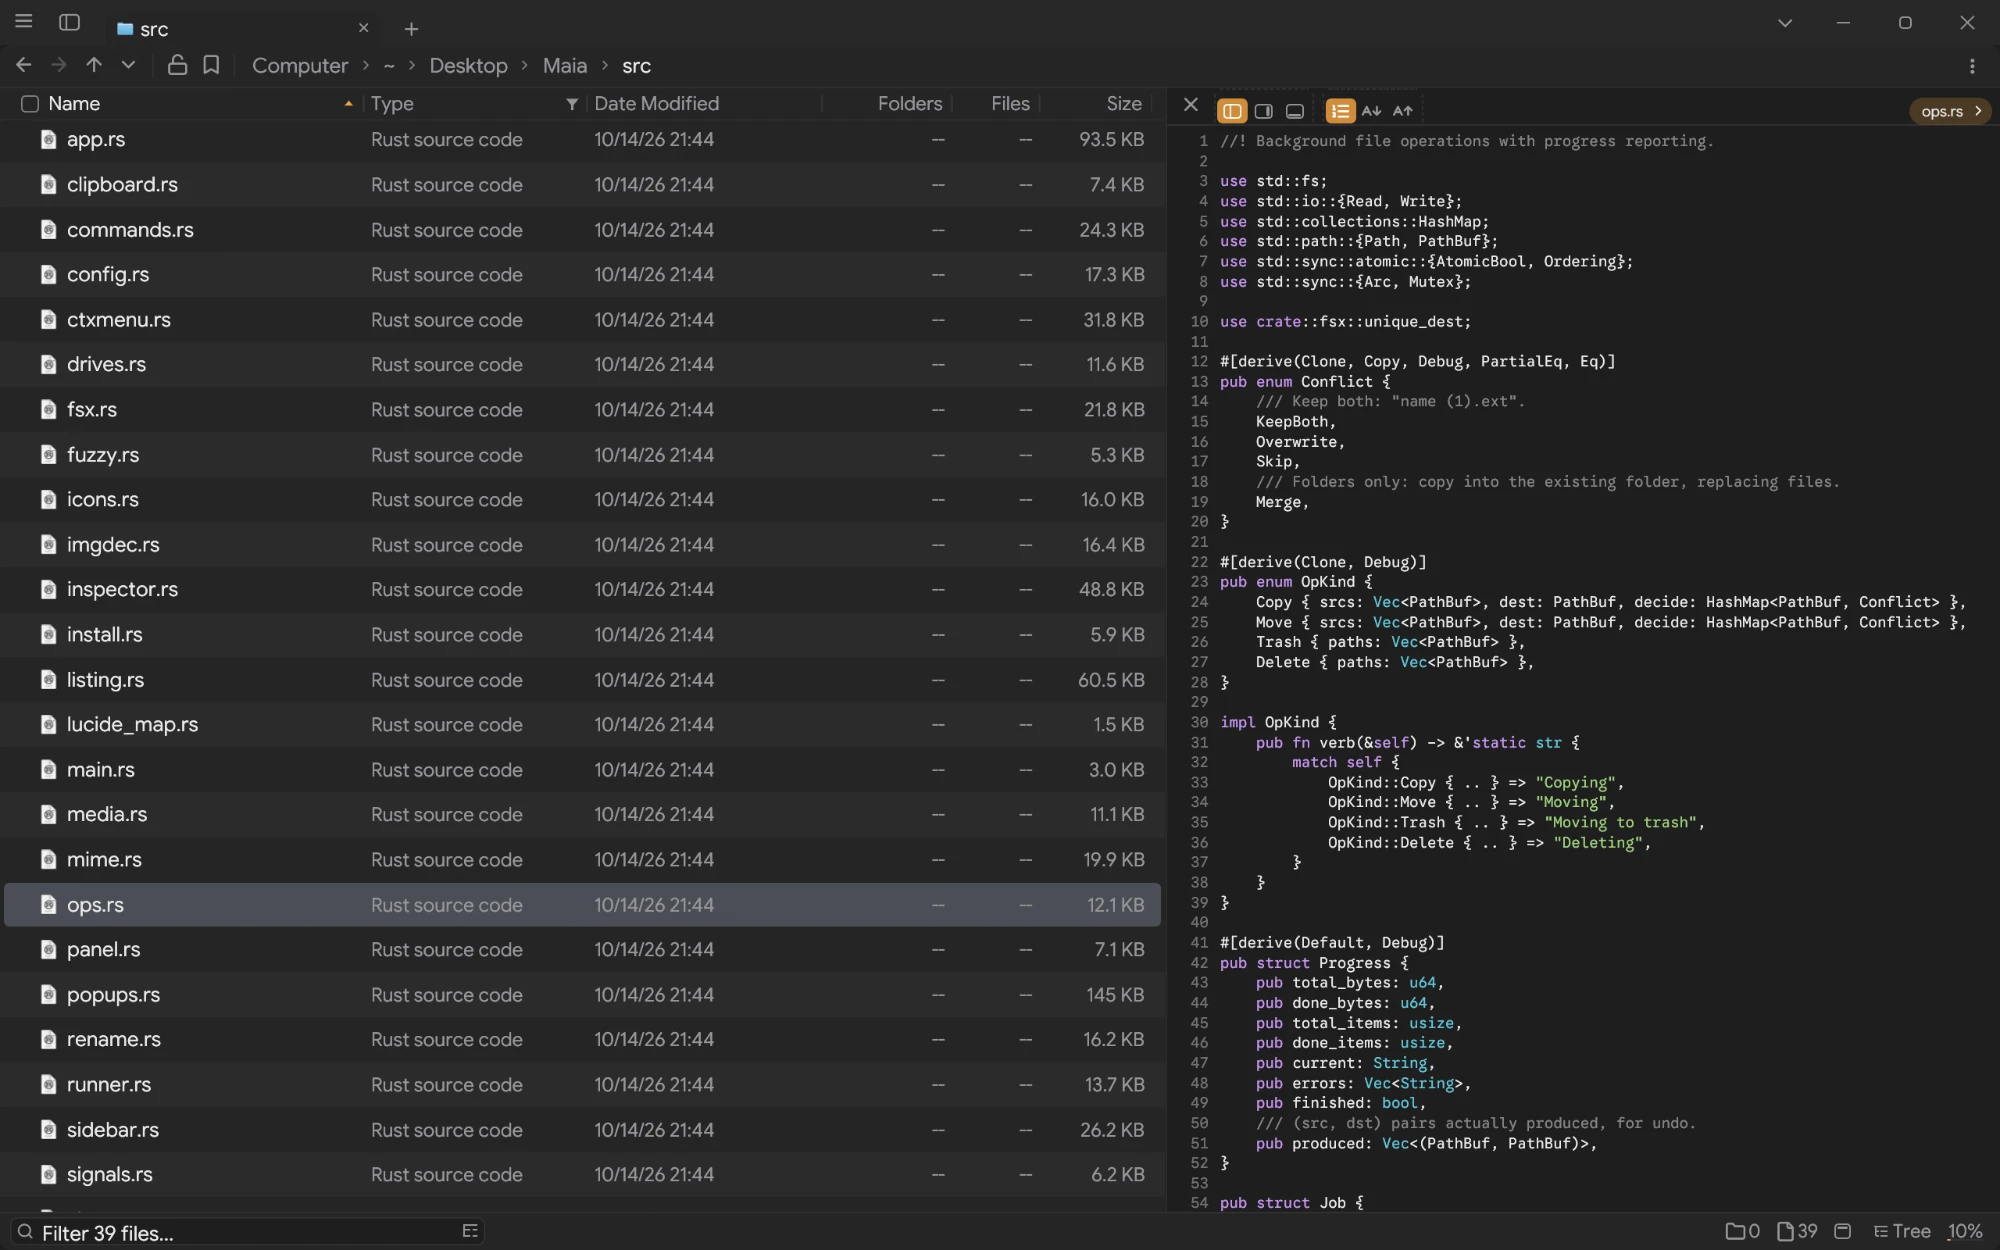
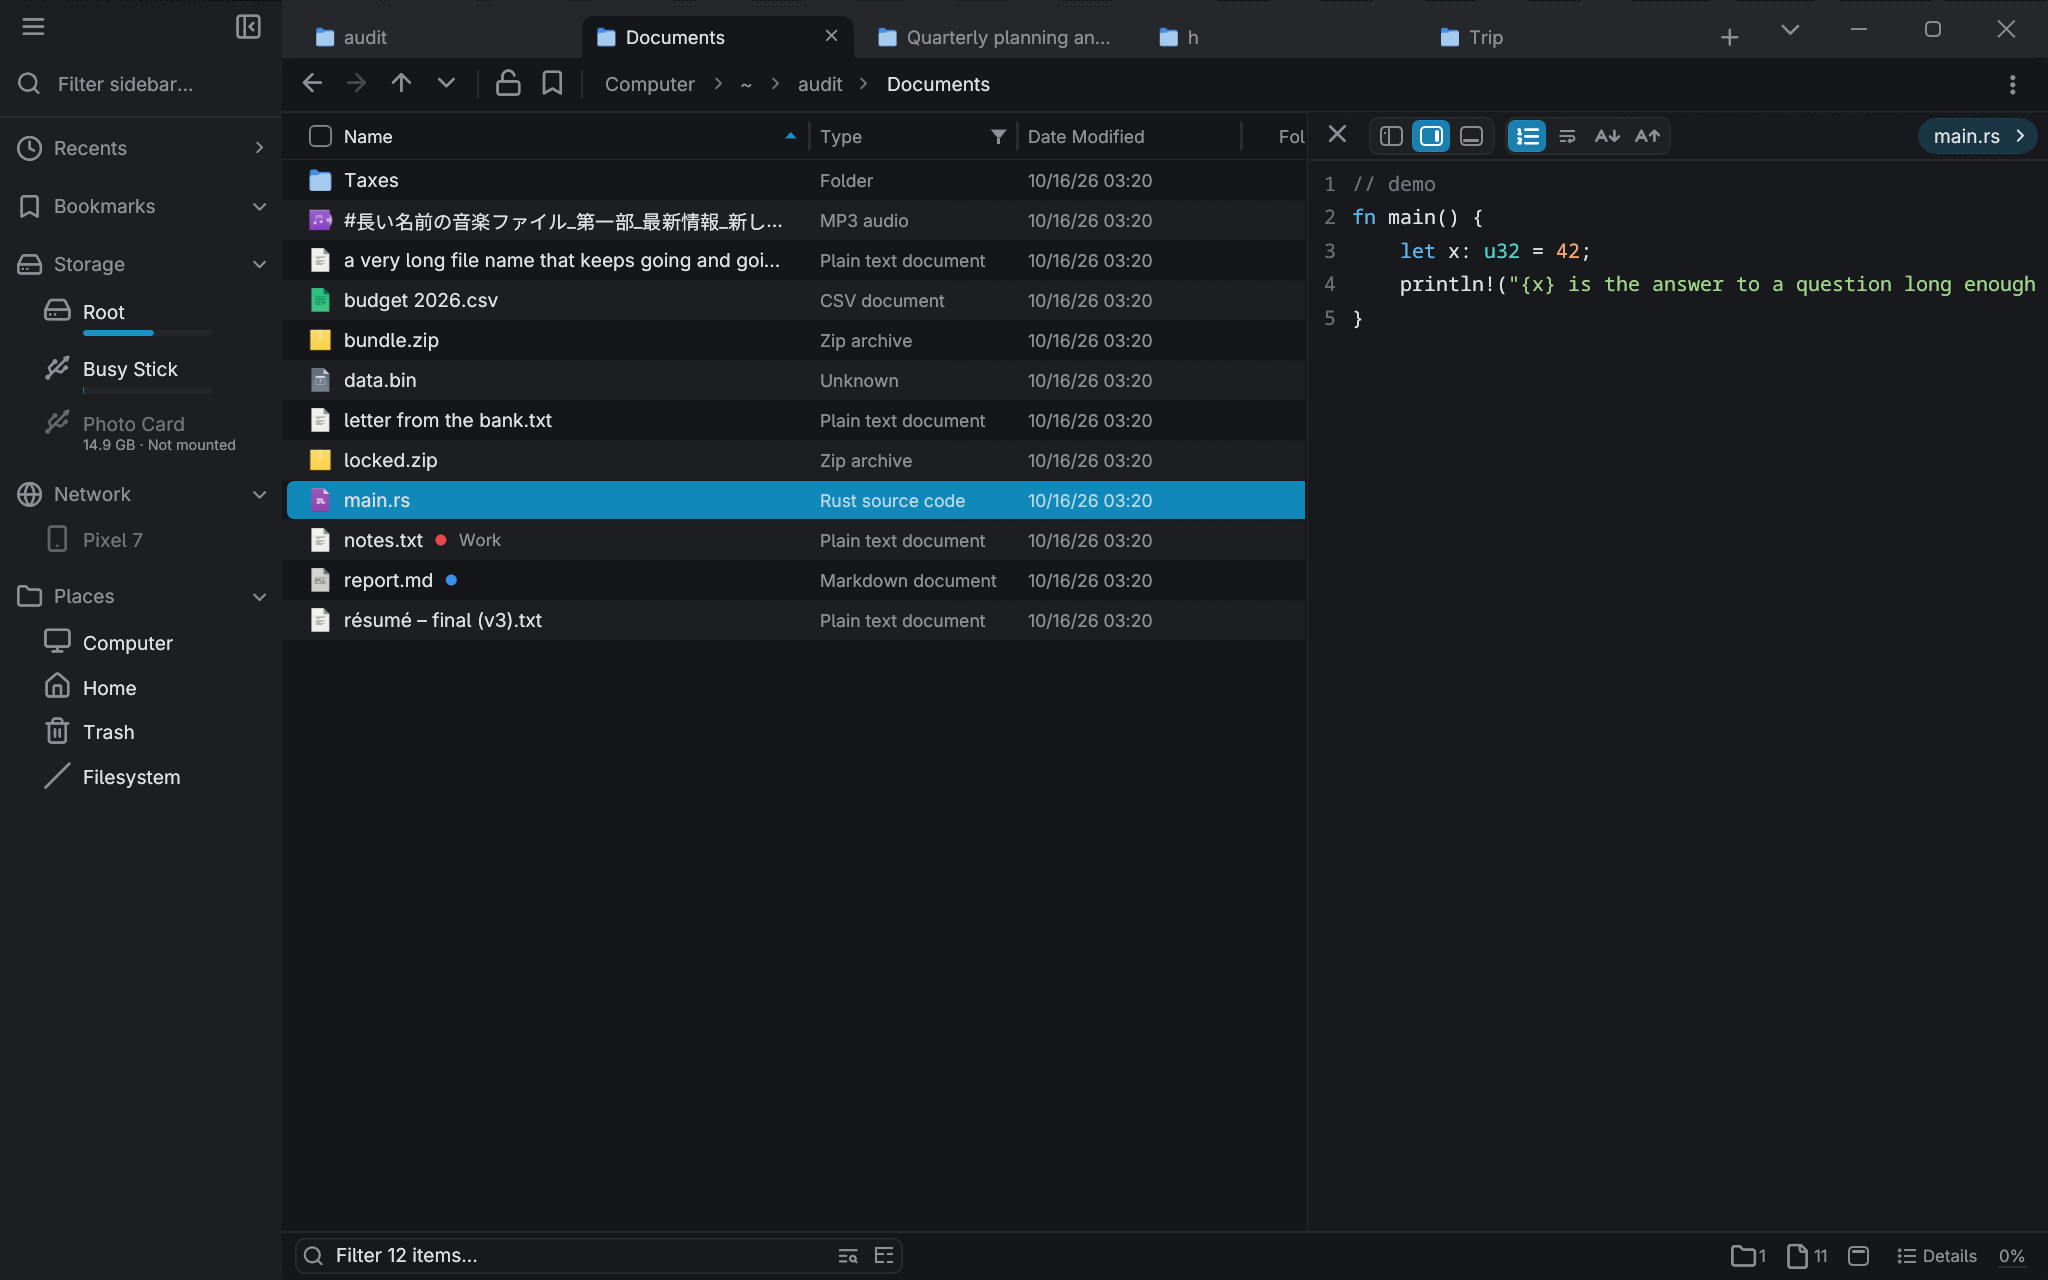
Name the test settings and internal places after Maia; a new screenshot; 0.2.0
The sims' and test window's environment variables start with MAIA_, and
the Computer view's internal paths with maia: (older saved sessions still
open). The README shows the current window.

diff --git a/src/sim.rs b/src/sim.rs
@@ -5,7 +5,7 @@
 //!
 //! These tests click, type, rename, move and delete like a person would, so they only run
 //! inside the sandbox set up by `tools/sim.sh` (read-only filesystem, empty home,
-//! no network, only the fixture writable), which sets `COMET_SIM_SANDBOX=1`. Started any
+//! no network, only the fixture writable), which sets `MAIA_SIM_SANDBOX=1`. Started any
 //! other way they skip. External programs are never launched from test builds
 //! (`mime::spawn_detached` records the request instead).
 
@@ -35,7 +35,7 @@ pub fn prof(name: &'static str, t: Instant) {
 
 /// True inside the sandbox; tests return early (and say so) otherwise.
 pub fn sandboxed() -> bool {
-    let ok = std::env::var("COMET_SIM_SANDBOX").as_deref() == Ok("1");
+    let ok = std::env::var("MAIA_SIM_SANDBOX").as_deref() == Ok("1");
     if !ok {
         eprintln!("sim: skipped (run tools/sim.sh to simulate users in the sandbox)");
     }
@@ -46,7 +46,7 @@ pub fn sandboxed() -> bool {
 pub fn root() -> PathBuf {
     static ROOT: std::sync::OnceLock<PathBuf> = std::sync::OnceLock::new();
     ROOT.get_or_init(|| {
-        let r = PathBuf::from(std::env::var("COMET_SIM_ROOT").expect("COMET_SIM_ROOT"));
+        let r = PathBuf::from(std::env::var("MAIA_SIM_ROOT").expect("MAIA_SIM_ROOT"));
         for d in ["home", "xdg/config", "xdg/data", "xdg/cache", "xdg/state"] {
             std::fs::create_dir_all(r.join(d)).unwrap();
         }
@@ -88,7 +88,7 @@ fn free_mb(p: &Path) -> u64 {
 
 pub fn wipe_root() {
     let r = root();
-    if std::env::var("COMET_SIM_DEBUG").is_ok() {
+    if std::env::var("MAIA_SIM_DEBUG").is_ok() {
         let out = std::process::Command::new("du").args(["-xhd", "3"]).arg(&r).output();
         let txt = out.map(|o| String::from_utf8_lossy(&o.stdout).into_owned()).unwrap_or_default();
         let mut lines: Vec<&str> = txt.lines().collect();
@@ -104,7 +104,7 @@ pub fn wipe_root() {
     for d in ["home", "xdg/config", "xdg/data", "xdg/cache", "xdg/state"] {
         let _ = std::fs::create_dir_all(r.join(d));
     }
-    if std::env::var("COMET_SIM_DEBUG").is_ok() {
+    if std::env::var("MAIA_SIM_DEBUG").is_ok() {
         eprintln!("wipe: free {} MB after", free_mb(&r));
         if let Ok(rd) = std::fs::read_dir("/proc/self/fd") {
             for d in rd.flatten() {
@@ -117,7 +117,7 @@ pub fn wipe_root() {
                 }
             }
         }
-        for cmd in [vec!["df", "-h", "/tmp", "/run", "/home"], vec!["sh", "-c", "find / -xdev -newer /proc/self/stat -size +1M 2>/dev/null | head; find \"$COMET_SIM_ROOT\" | head -20; df -h \"$COMET_SIM_ROOT\""]] {
+        for cmd in [vec!["df", "-h", "/tmp", "/run", "/home"], vec!["sh", "-c", "find / -xdev -newer /proc/self/stat -size +1M 2>/dev/null | head; find \"$MAIA_SIM_ROOT\" | head -20; df -h \"$MAIA_SIM_ROOT\""]] {
             if let Ok(o) = std::process::Command::new(cmd[0]).args(&cmd[1..]).output() {
                 eprintln!("  $ {}\n{}", cmd.join(" "), String::from_utf8_lossy(&o.stdout));
             }
@@ -420,7 +420,7 @@ pub struct Sim {
     pub popup_checks: std::cell::Cell<usize>,
     /// Text drawn in the last frame (visible rect, string), for clicking by label.
     pub texts: Vec<(Rect, String)>,
-    /// What the last frame drew, kept for `shot` when COMET_SIM_SHOTS names a folder.
+    /// What the last frame drew, kept for `shot` when MAIA_SIM_SHOTS names a folder.
     shots: Option<Box<Shots>>,
 }
 
@@ -525,10 +525,10 @@ impl Sim {
         root();
         let ctx = egui::Context::default();
         let app = App::new(&ctx, vec![path.to_path_buf()]);
-        let shots = std::env::var_os("COMET_SIM_SHOTS").map(|d| Box::new(Shots { dir: PathBuf::from(d), textures: Default::default(), prims: vec![] }));
+        let shots = std::env::var_os("MAIA_SIM_SHOTS").map(|d| Box::new(Shots { dir: PathBuf::from(d), textures: Default::default(), prims: vec![] }));
         let mut s = Sim { ctx, app, size, ppp: 1.6, time: 0.0, pointer: pos2(-10.0, -10.0), frame_ms: vec![], log: VecDeque::new(), check_overlap: false, slow: vec![], popup_checks: Default::default(), texts: vec![], shots };
-        // COMET_SIM_LOOK=FONT,SPACING runs a session at another font size and Spacing.
-        if let Some((f, sp)) = std::env::var("COMET_SIM_LOOK").ok().and_then(|v| v.split_once(',').and_then(|(f, sp)| Some((f.trim().parse().ok()?, sp.trim().parse().ok()?)))) {
+        // MAIA_SIM_LOOK=FONT,SPACING runs a session at another font size and Spacing.
+        if let Some((f, sp)) = std::env::var("MAIA_SIM_LOOK").ok().and_then(|v| v.split_once(',').and_then(|(f, sp)| Some((f.trim().parse().ok()?, sp.trim().parse().ok()?)))) {
             s.app.cfg.font_size = f;
             s.app.cfg.spacing = sp;
         }
@@ -583,7 +583,7 @@ impl Sim {
         self.frame_ms.push(ms);
         if ms > SLOW_MS && self.frame_ms.len() > 3 {
             let traced = self.slow.iter().any(|x| x.0 > 1000.0);
-            if !traced && (ms > 1000.0 || (self.slow.is_empty() && std::env::var("COMET_SIM_SEED").is_ok())) {
+            if !traced && (ms > 1000.0 || (self.slow.is_empty() && std::env::var("MAIA_SIM_SEED").is_ok())) {
                 eprintln!("first slow frame ({ms:.0} ms); steps before it:\n  {}", self.log.iter().cloned().collect::<Vec<_>>().join("\n  "));
                 PROF.with(|p| eprintln!("  sections: {:?}", p.borrow()));
                 eprintln!("  jobs {} [{}], popup open {}, drag {}, toast {:?}", self.app.jobs.len(), self.app.jobs.iter().map(|j| j.label.clone()).collect::<Vec<_>>().join("; "), self.popup_open(), self.app.drag.is_some(), self.app.toast.as_ref().map(|t| t.0.clone()));
@@ -680,13 +680,13 @@ impl Sim {
         self.act(&format!("click {:.0} {:.0}", r.center().x, r.center().y));
     }
 
-    /// Save what the last frame drew as `<COMET_SIM_SHOTS>/<name>.png` (nothing when the
+    /// Save what the last frame drew as `<MAIA_SIM_SHOTS>/<name>.png` (nothing when the
     /// variable is not set). The look in use goes into the name.
     pub fn shot(&self, name: &str) {
         let Some(sh) = &self.shots else { return };
         let (w, h) = ((self.size.x * self.ppp).round() as usize, (self.size.y * self.ppp).round() as usize);
         let rgb = sh.paint(w, h, self.ppp);
-        let look = std::env::var("COMET_SIM_LOOK").unwrap_or_default().replace(',', "-");
+        let look = std::env::var("MAIA_SIM_LOOK").unwrap_or_default().replace(',', "-");
         let name: String = format!("{name}{}{look}", if look.is_empty() { "" } else { "@" }).chars().map(|c| if c.is_ascii_alphanumeric() || matches!(c, '-' | '.' | '@') { c } else { '_' }).collect();
         let Ok(f) = std::fs::File::create(sh.dir.join(format!("{name}.png"))) else { return };
         let mut e = png::Encoder::new(std::io::BufWriter::new(f), w as u32, h as u32);
@@ -4782,11 +4782,11 @@ mod journeys {
         report("admin", &s);
     }
 
-    /// Every surface photographed for a person to look at (COMET_SIM_SHOTS): the window,
+    /// Every surface photographed for a person to look at (MAIA_SIM_SHOTS): the window,
     /// each view, the inspector's previews, the history, popups and menus, in a dark and
     /// a light theme and two of the newer ones, at a normal and a small window. Without
     /// shots it walks the first theme and size only, as one more check of every frame.
-    /// COMET_SIM_AUDIT=midnight-1280 keeps the passes whose name contains it.
+    /// MAIA_SIM_AUDIT=midnight-1280 keeps the passes whose name contains it.
     #[test]
     fn ui_audit() {
         if !sandboxed() {
@@ -4834,8 +4834,8 @@ mod journeys {
         let _reset = Reset;
         let (addr, _, _) = crate::tests::fake_ollama(true);
         *crate::ollama::TEST_HOST.lock().unwrap() = Some(addr);
-        let shots = std::env::var_os("COMET_SIM_SHOTS").is_some();
-        let only = std::env::var("COMET_SIM_AUDIT").unwrap_or_default().to_lowercase();
+        let shots = std::env::var_os("MAIA_SIM_SHOTS").is_some();
+        let only = std::env::var("MAIA_SIM_AUDIT").unwrap_or_default().to_lowercase();
         for theme in [ThemeName::Midnight, ThemeName::Paper, ThemeName::Latte, ThemeName::Gruvbox] {
             for (w, h) in [(1280.0, 800.0), (720.0, 480.0)] {
                 let tag = format!("{}-{w}", theme.label().to_lowercase().replace(' ', ""));
@@ -5140,10 +5140,10 @@ mod journeys {
         if !sandboxed() {
             return;
         }
-        let seeds: u64 = std::env::var("COMET_SIM_SEEDS").ok().and_then(|v| v.parse().ok()).unwrap_or(10);
-        let steps: usize = std::env::var("COMET_SIM_STEPS").ok().and_then(|v| v.parse().ok()).unwrap_or(300);
+        let seeds: u64 = std::env::var("MAIA_SIM_SEEDS").ok().and_then(|v| v.parse().ok()).unwrap_or(10);
+        let steps: usize = std::env::var("MAIA_SIM_STEPS").ok().and_then(|v| v.parse().ok()).unwrap_or(300);
         let mut all = vec![];
-        let only: Option<u64> = std::env::var("COMET_SIM_SEED").ok().and_then(|v| v.parse().ok());
+        let only: Option<u64> = std::env::var("MAIA_SIM_SEED").ok().and_then(|v| v.parse().ok());
         for seed in only.map(|o| o..=o).unwrap_or(1..=seeds) {
             let home = fixture(&format!("monkey{seed}"));
             // A git work tree with every kind of change, for the status marks.

diff --git a/src/tests.rs b/src/tests.rs
@@ -534,12 +534,12 @@ fn trash_metadata_columns_and_groups() {
     let _ = std::fs::remove_dir_all(&d);
 }
 
-/// Renders the SVGs listed in $COMET_SVG_SAMPLES (one path per line) into $COMET_SVG_OUT
+/// Renders the SVGs listed in $MAIA_SVG_SAMPLES (one path per line) into $MAIA_SVG_OUT
 /// as PNGs, for eyeballing the renderer. Run with --ignored.
 #[test]
 #[ignore]
 fn svg_render_samples() {
-    let (Ok(list), Ok(out)) = (std::env::var("COMET_SVG_SAMPLES"), std::env::var("COMET_SVG_OUT")) else { return };
+    let (Ok(list), Ok(out)) = (std::env::var("MAIA_SVG_SAMPLES"), std::env::var("MAIA_SVG_OUT")) else { return };
     std::fs::create_dir_all(&out).unwrap();
     for (i, p) in std::fs::read_to_string(list).unwrap().lines().enumerate() {
         let data = std::fs::read(p).unwrap();
@@ -1216,7 +1216,7 @@ fn drag_picture_is_a_clean_premultiplied_card() {
         let text = (70..w).flat_map(|x| (0..h).map(move |y| (x, y))).filter(|&(x, y)| at(x, y)[1] > 150).count();
         assert!(text > 60, "{name}: the label is drawn ({text} bright pixels)");
         assert!(w <= ((10.0 + 16.0 + 8.0 + 241.0 + 12.0) * 2.0) as usize + 2, "{name}: long names are cut ({w})");
-        if let Some(d) = std::env::var_os("COMET_ICON_DUMP") {
+        if let Some(d) = std::env::var_os("MAIA_ICON_DUMP") {
             let mut rgba = px.clone();
             for p in rgba.chunks_mut(4) {
                 p.swap(0, 2);
@@ -1241,7 +1241,7 @@ fn window_icon_is_the_launcher_icon() {
     assert!(c[0] > 240 && c[1] > 240 && c[2] > 240, "star {c:?}");
     let g = at(41, 31);
     assert!(g[2] > g[0], "blue glow under the star {g:?}");
-    if let Some(d) = std::env::var_os("COMET_ICON_DUMP") {
+    if let Some(d) = std::env::var_os("MAIA_ICON_DUMP") {
         let f = std::fs::File::create(std::path::Path::new(&d).join("window-icon.png")).unwrap();
         let mut e = png::Encoder::new(f, w, h);
         e.set_color(png::ColorType::Rgba);
@@ -1690,7 +1690,7 @@ fn hand_written_png_is_valid_and_compact() {
     }
     assert!(ours.len() < theirs.len() * 2, "ours {} vs png {}", ours.len(), theirs.len());
     eprintln!("png sizes: ours {} png crate {}", ours.len(), theirs.len());
-    if let Some(d) = std::env::var_os("COMET_ICON_DUMP") {
+    if let Some(d) = std::env::var_os("MAIA_ICON_DUMP") {
         std::fs::write(std::path::Path::new(&d).join("hand.png"), &ours).unwrap();
     }
 }

diff --git a/src/tab.rs b/src/tab.rs
@@ -12,17 +12,19 @@ use crate::fuzzy;
 use crate::rename::Rename;
 use crate::stats::DirStats;
 
-pub const COMPUTER: &str = "comet:computer";
+pub const COMPUTER: &str = "maia:computer";
 
 pub fn is_computer(p: &Path) -> bool {
-    p.as_os_str() == COMPUTER
+    // (Or its form under an earlier name, as an older saved session may have it.)
+    p.as_os_str() == COMPUTER || p.to_str().is_some_and(|s| s.ends_with(":computer") && !s.contains('/') && s.len() < 24)
 }
 
-/// Computer view rows for drives that aren't mounted: "comet:drive:/dev/sdb1".
-pub const DRIVE: &str = "comet:drive:";
+/// Computer view rows for drives that aren't mounted: "maia:drive:/dev/sdb1".
+pub const DRIVE: &str = "maia:drive:";
 
 pub fn drive_dev(p: &Path) -> Option<&str> {
-    p.to_str()?.strip_prefix(DRIVE)
+    let s = p.to_str()?;
+    s.strip_prefix(DRIVE).or_else(|| s.split_once(":drive:").filter(|(name, _)| !name.contains('/')).map(|(_, dev)| dev))
 }
 
 #[derive(Clone, Debug, Default)]

diff --git a/src/testkit.rs b/src/testkit.rs
@@ -1,5 +1,5 @@
 //! Test-only input driver (cargo feature `testkit`): reads commands from the FIFO named
-//! by $COMET_TEST_FIFO and injects them as egui input. Not compiled into release builds.
+//! by $MAIA_TEST_FIFO and injects them as egui input. Not compiled into release builds.
 //!
 //! Commands (coordinates in logical points, relative to the window):
 //!   move X Y            click X Y [left|right|middle] [ctrl|shift|alt...]
@@ -26,7 +26,7 @@ pub struct Driver {
 
 impl Driver {
     pub fn start(wake: impl Fn() + Send + 'static) -> Option<Driver> {
-        let path = std::env::var("COMET_TEST_FIFO").ok()?;
+        let path = std::env::var("MAIA_TEST_FIFO").ok()?;
         let (tx, rx) = channel();
         std::thread::spawn(move || {
             loop {

diff --git a/src/mime.rs b/src/mime.rs
@@ -530,7 +530,7 @@ pub fn set_default(app_id: &str, mime: &str) -> Result<(), String> {
     {
         LAUNCHED.lock().unwrap_or_else(|e| e.into_inner()).push(format!("xdg-mime default {app_id} {mime}"));
         // Inside the simulation sandbox, do what xdg-mime does, to the sandbox's own file.
-        if std::env::var("COMET_SIM_SANDBOX").as_deref() == Ok("1") {
+        if std::env::var("MAIA_SIM_SANDBOX").as_deref() == Ok("1") {
             if let Some(dir) = dirs::config_dir() {
                 let p = dir.join("mimeapps.list");
                 let old = std::fs::read_to_string(&p).unwrap_or_default();
